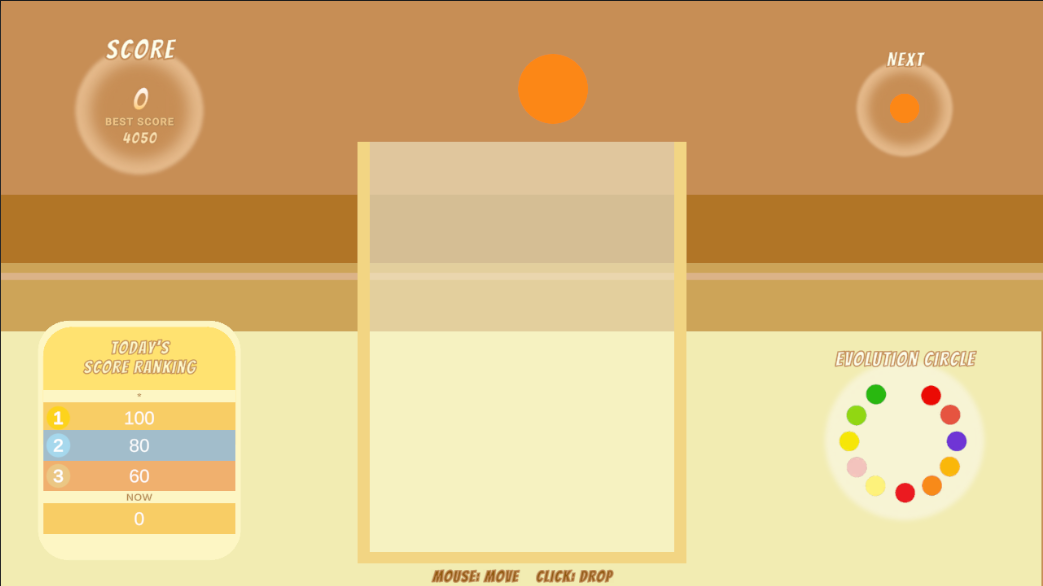
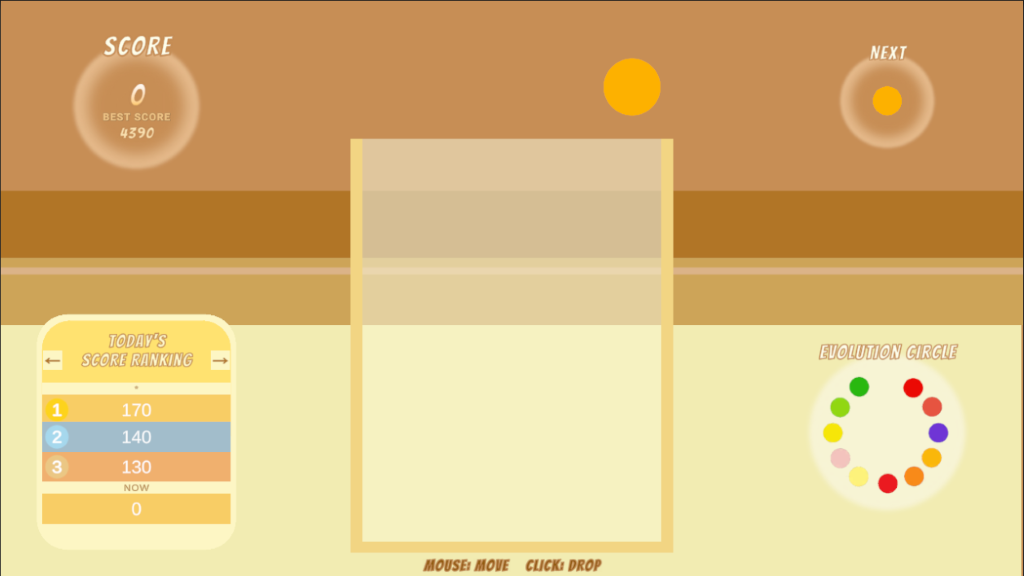
Updated readme text and images

diff --git a/README.md b/README.md
@@ -35,7 +35,7 @@ This repository aims to clone that game in Unity.
 - [x] Display your highest score so far
 - [x] Play sound effects
 - [x] Display the next operable sphere
-- [x] Display today's score ranking
+- [x] Display local score ranking (Daily, Monthly, All-Time)
 - [ ] Display the circle of evolution
 
 #### Out Game
